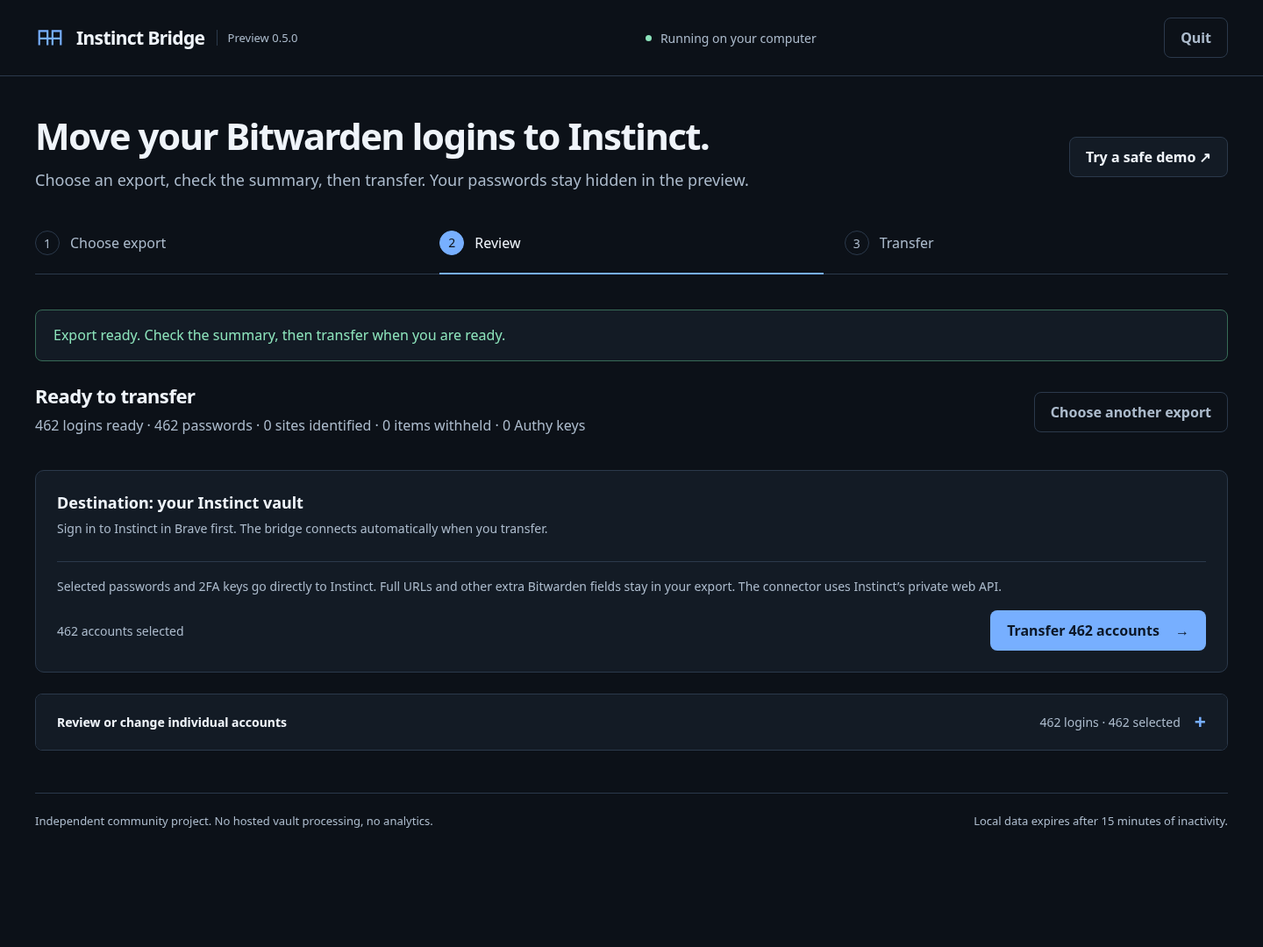
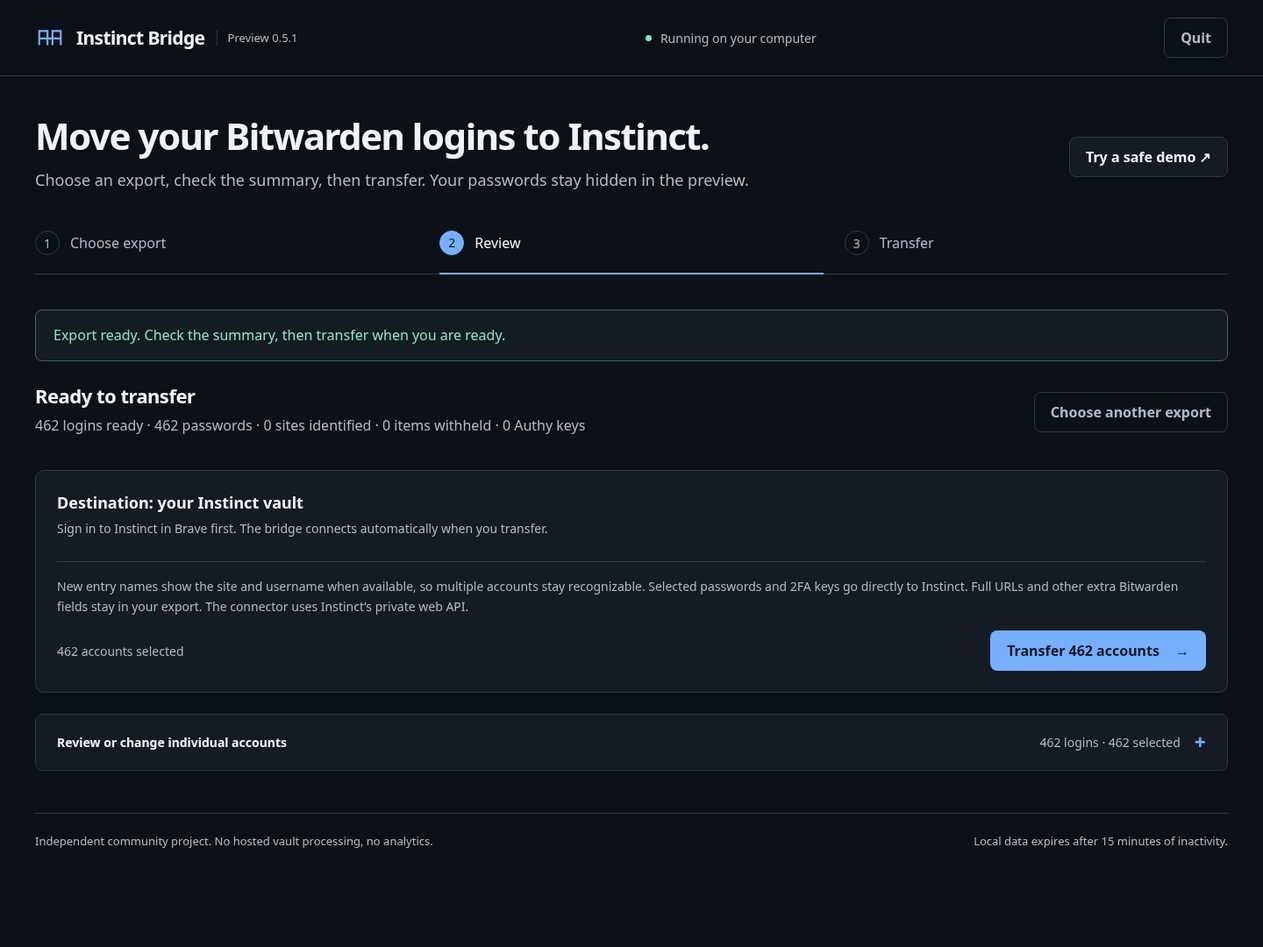
Clarify multi-account login labels

diff --git a/src/instinct_bridge/static/index.html b/src/instinct_bridge/static/index.html
@@ -1,7 +1,7 @@
 <!doctype html>
 <html lang="en"><head><meta charset="utf-8"><meta name="viewport" content="width=device-width,initial-scale=1"><title>Instinct Bridge</title><link rel="icon" href="/static/icon.svg" type="image/svg+xml"><link rel="stylesheet" href="/static/style.css"><script src="/static/app.js" defer></script></head>
 <body>
-<header><a class="brand" href="#" aria-label="Instinct Bridge"><svg viewBox="0 0 36 36" aria-hidden="true"><path d="M5 27V10h10v17M21 27V10h10v17M5 19h26"/></svg>Instinct Bridge<span class="version">Preview 0.5.0</span></a><span class="local"><span class="dot"></span>Running on your computer</span><button class="quiet" id="quit">Quit</button></header>
+<header><a class="brand" href="#" aria-label="Instinct Bridge"><svg viewBox="0 0 36 36" aria-hidden="true"><path d="M5 27V10h10v17M21 27V10h10v17M5 19h26"/></svg>Instinct Bridge<span class="version">Preview 0.5.1</span></a><span class="local"><span class="dot"></span>Running on your computer</span><button class="quiet" id="quit">Quit</button></header>
 <main>
 <div class="intro"><div><h1>Move your Bitwarden logins to Instinct.</h1><p>Choose an export, check the summary, then transfer. Your passwords stay hidden in the preview.</p></div><button class="secondary" id="demo">Try a safe demo <span aria-hidden="true">↗</span></button></div>
 <ol class="stages" aria-label="Migration progress"><li class="active" id="stage1"><span>1</span>Choose export</li><li id="stage2"><span>2</span>Review</li><li id="stage3"><span>3</span>Transfer</li></ol>
@@ -14,7 +14,7 @@
 <section id="review" hidden aria-labelledby="review-title"><div class="section-head"><div><h2 id="review-title">Ready to transfer</h2><p id="counts"></p></div><div class="review-tools"><span id="demo-label" hidden>Sample data · transfer disabled</span><button class="quiet" id="clear">Choose another export</button></div></div>
 <div id="issues" hidden><h3>Some source data will stay in Bitwarden</h3><p>Instinct has no URL field for logins. The site hostname is added to the account name, but full URLs, notes, attachments, passkeys and custom fields stay in Bitwarden.</p><ul id="issue-list"></ul></div>
 <div id="pairing" hidden><div class="section-head"><div><h2>Pair your Authy keys</h2><p>Check each pairing. An unpaired key stays out of the transfer.</p></div></div><div id="authy-rows"></div><label class="check-label"><input type="checkbox" id="allow-unmapped">Leave any unpaired Authy keys out of this transfer.</label></div>
-<div class="transfer-panel"><div class="connection"><div><h3>Destination: your Instinct vault</h3><p id="connection-state">Sign in to Instinct in Brave first. The bridge connects automatically when you transfer.</p></div></div><p class="transfer-consent">Selected passwords and 2FA keys go directly to Instinct. Full URLs and other extra Bitwarden fields stay in your export. The connector uses Instinct’s private web API.</p><div class="transfer-actions"><span id="selection-count">0 accounts selected</span><button class="primary" id="transfer" disabled><span id="transfer-label">Transfer &amp; verify</span><span aria-hidden="true">→</span></button></div><div id="transfer-progress" class="transfer-progress" hidden><progress id="transfer-meter" max="1" value="0"></progress><p id="transfer-progress-text" role="status" aria-live="polite">Preparing transfer…</p></div></div>
+<div class="transfer-panel"><div class="connection"><div><h3>Destination: your Instinct vault</h3><p id="connection-state">Sign in to Instinct in Brave first. The bridge connects automatically when you transfer.</p></div></div><p class="transfer-consent">New entry names show the site and username when available, so multiple accounts stay recognizable. Selected passwords and 2FA keys go directly to Instinct. Full URLs and other extra Bitwarden fields stay in your export. The connector uses Instinct’s private web API.</p><div class="transfer-actions"><span id="selection-count">0 accounts selected</span><button class="primary" id="transfer" disabled><span id="transfer-label">Transfer &amp; verify</span><span aria-hidden="true">→</span></button></div><div id="transfer-progress" class="transfer-progress" hidden><progress id="transfer-meter" max="1" value="0"></progress><p id="transfer-progress-text" role="status" aria-live="polite">Preparing transfer…</p></div></div>
 <details id="accounts-details" class="accounts-details"><summary><span>Review or change individual accounts</span><span id="accounts-summary"></span></summary><div class="account-filter"><label for="account-search">Find an account</label><input id="account-search" type="search" placeholder="Search title, site, or username" autocomplete="off"></div><p id="account-empty" hidden>No matching account in this export.</p><div class="table-wrap"><table><thead><tr><th class="check-col"><input id="select-all" type="checkbox" aria-label="Select all accounts" checked></th><th>Account</th><th>Site</th><th>Username</th><th>Authenticator</th><th>Result</th></tr></thead><tbody id="account-rows"></tbody></table></div></details>
 </section>
 <footer><span>Independent community project. No hosted vault processing, no analytics.</span><span>Local data expires after 15 minutes of inactivity.</span></footer>

diff --git a/scripts/verify_multi_account.py b/scripts/verify_multi_account.py
@@ -1,0 +1,69 @@
+"""Opt-in real-vault check with two synthetic accounts for one service.
+
+The report contains only booleans and counts. Both synthetic records are removed.
+"""
+
+import argparse
+import json
+from dataclasses import replace
+from datetime import datetime, timezone
+from pathlib import Path
+from uuid import uuid4
+
+from instinct_bridge.destination import DELETE, brave_session
+from instinct_bridge.source import loads_plan
+
+parser = argparse.ArgumentParser(description=__doc__)
+parser.add_argument("--brave-session", action="store_true", required=True)
+parser.add_argument("--report", type=Path)
+args = parser.parse_args()
+
+run_id = uuid4().hex[:12]
+source = {"encrypted": False, "items": [
+    {"id": str(uuid4()), "type": 1, "name": f"Instinct Bridge synthetic multi-account {run_id}",
+     "login": {"username": username, "password": f"SYNTHETIC-{run_id}-{number}",
+               "uris": [{"uri": "https://same-service.example.invalid/login"}]}}
+    for number, username in enumerate(("first@example.invalid", "second@example.invalid"), 1)
+]}
+items = loads_plan(json.dumps(source), allow_partial=True, migration_names=True).logins
+assert len(items) == 2 and items[0].site == items[1].site
+assert all(f"login: {item.username}" in item.name for item in items)
+
+report = {"checked_at": datetime.now(timezone.utc).isoformat(), "data": "synthetic",
+          "same_title_and_service": True, "distinct_source_ids": items[0].source_id != items[1].source_id}
+with brave_session() as destination:
+    inventory = destination.inventory()
+    assert all(not any(entry["kind"] == "login" and entry["name"] == item.name
+                       for entry in inventory) for item in items)
+    try:
+        report["created"] = [destination.transfer(item)["status"] for item in items]
+        destination.reload()
+        report["exact_readback"] = [all(destination.verify(item).values()) for item in items]
+        report["cross_account_mismatch_rejected"] = [
+            not all(destination.verify(replace(item, name=other.name)).values())
+            for item, other in ((items[0], items[1]), (items[1], items[0]))]
+        report["repeat"] = [destination.transfer(item)["status"] for item in items]
+        report["vault_entry_count"] = sum(entry["kind"] == "login" and
+                                          entry["name"] in {item.name for item in items}
+                                          for entry in destination.inventory())
+        destination.page.goto("https://app.instinct.com/vault", wait_until="domcontentloaded")
+        destination.page.wait_for_timeout(2000)
+        visible = destination.page.locator("body").inner_text()
+        report["both_labels_visible_in_vault"] = all(item.name in visible for item in items)
+        report["both_usernames_visible_in_labels"] = all(item.username in visible for item in items)
+    finally:
+        for item in items:
+            if all(destination.verify(item).values()):
+                destination.call(DELETE, {"kind": "login", "name": item.name})
+        report["cleanup_verified"] = all(not any(entry["kind"] == "login" and entry["name"] == item.name
+                                             for entry in destination.inventory()) for item in items)
+        if args.report:
+            args.report.parent.mkdir(parents=True, exist_ok=True)
+            args.report.write_text(json.dumps(report, indent=2) + "\n")
+
+assert report["created"] == ["created", "created"] and report["exact_readback"] == [True, True]
+assert report["cross_account_mismatch_rejected"] == [True, True]
+assert report["repeat"] == ["already_present", "already_present"] and report["vault_entry_count"] == 2
+assert report["both_labels_visible_in_vault"] and report["both_usernames_visible_in_labels"]
+assert report["cleanup_verified"]
+print(json.dumps(report, indent=2))

diff --git a/tests/test_source.py b/tests/test_source.py
@@ -95,6 +95,37 @@ class SourceTests(unittest.TestCase):
         with self.assertRaisesRegex(MigrationError, "Duplicate Bitwarden item IDs"):
             loads_plan(json.dumps(data), allow_partial=True, migration_names=True)
 
+    def test_same_service_accounts_show_their_usernames_without_losing_identity(self):
+        data = self.data()
+        first = data["items"][0]
+        first["name"] = "Same service"
+        first["login"]["username"] = "first@example.invalid"
+        first["login"]["uris"] = [{"uri": "https://same-service.example.invalid/one"}]
+        second = copy.deepcopy(first)
+        second["id"] = "00000000-0000-4000-8000-000000000003"
+        second["login"]["username"] = "second@example.invalid"
+        data["items"].append(second)
+        plan = loads_plan(json.dumps(data), allow_partial=True, migration_names=True)
+        self.assertEqual(len(plan.logins), 2)
+        for login, username in zip(plan.logins, ("first@example.invalid", "second@example.invalid")):
+            self.assertIn("same-service.example.invalid", login.name)
+            self.assertIn("login: " + username, login.name)
+            self.assertTrue(login.name.endswith(f"[bw:{login.source_id}]"))
+            self.assertLessEqual(len(login.name), 240)
+            self.assertEqual(login.username, username)
+        self.assertNotEqual(plan.logins[0].name, plan.logins[1].name)
+
+    def test_long_migration_name_keeps_account_hint_and_marker(self):
+        data = self.data()
+        data["items"][0]["name"] = "Long title " * 200
+        data["items"][0]["login"]["username"] = "long-account-" * 30 + "\n"
+        data["items"][0]["login"]["uris"] = [{"uri": "https://" + "long." * 18 + "example.invalid"}]
+        login = loads_plan(json.dumps(data), allow_partial=True, migration_names=True).logins[0]
+        self.assertLessEqual(len(login.name), 240)
+        self.assertIn(" · login: long-account-", login.name)
+        self.assertNotIn("\n", login.name)
+        self.assertTrue(login.name.endswith(f"[bw:{login.source_id}]"))
+
     def test_migration_mode_accepts_untitled_credential_with_stable_id(self):
         data = self.data()
         data["items"][0]["name"] = "  "

diff --git a/src/instinct_bridge/source.py b/src/instinct_bridge/source.py
@@ -131,12 +131,17 @@ def _site_from_uris(uris) -> str:
     return ""
 
 
-def _migration_name(title: str, site: str, identifier: str) -> str:
-    # The target has no source-ID or URL field, so the name carries both a readable
-    # hostname and a stable marker. Keep the marker even if a long title is trimmed.
+def _migration_name(title: str, site: str, username: str, identifier: str) -> str:
+    # Instinct's list shows names, not usernames. Include a readable account hint
+    # alongside the hostname while retaining the stable marker for safe reimports.
     suffix = f" [bw:{identifier}]"
-    prefix = title + (f" · {site}" if site else "")
-    return prefix[:240 - len(suffix)].rstrip() + suffix
+    site_label = site if len(site) <= 85 else "…" + site[-84:]
+    readable_username = " ".join("".join(char if char.isprintable() else " " for char in username).split())
+    username_label = readable_username if len(readable_username) <= 70 else readable_username[:69] + "…"
+    site_part = f" · {site_label}" if site_label else ""
+    username_part = f" · login: {username_label}" if username_label else ""
+    title_budget = 240 - len(suffix) - len(site_part) - len(username_part)
+    return title[:title_budget].rstrip() + site_part + username_part + suffix
 
 
 def _unique_object(pairs):
@@ -240,7 +245,7 @@ def loads_plan(raw, password="", allow_partial=False, migration_names=False) -> 
                 issue("Missing or invalid Bitwarden item ID; this login cannot be safely reimported.")
                 continue
         site = _site_from_uris(login.get("uris")) if migration_names else ""
-        destination_name = _migration_name(name, site, identifier) if migration_names else name
+        destination_name = _migration_name(name, site, username, identifier) if migration_names else name
         if extra:
             issues.append({"index": index, "reason": "Extra source fields stay in Bitwarden.", "partial": True})
         logins.append(Login(destination_name, username, password, totp, index,

diff --git a/src/instinct_bridge/web.py b/src/instinct_bridge/web.py
@@ -283,7 +283,7 @@ def create_app(token, expected_host, destination_factory=brave_session, capture_
 def main():
     parser = argparse.ArgumentParser(description="Start Instinct Bridge on this computer only")
     parser.add_argument("--port", type=int, default=8765)
-    parser.add_argument("--version", action="version", version="Instinct Bridge 0.5.0")
+    parser.add_argument("--version", action="version", version="Instinct Bridge 0.5.1")
     parser.add_argument("--open", action="store_true", help="Open the local app in your browser")
     args = parser.parse_args()
     if not 1024 <= args.port <= 65535:

diff --git a/README.md b/README.md
@@ -2,7 +2,7 @@
 
 A local app to move Bitwarden logins and recoverable Authy 2FA keys into Instinct, with account selection, explicit pairing, and verification after transfer.
 
-**Preview 0.5.0.** Tested against a real Instinct vault using synthetic credentials and a full login migration. The UI accepts Bitwarden logins with duplicate titles and supports repeat imports from later exports. It is a login/TOTP bridge, not a complete-vault migration tool. **Extraction from an actual Authy iPhone remains unvalidated.** Independent of Instinct, Bitwarden, and Twilio.
+**Preview 0.5.1.** Tested against a real Instinct vault using synthetic credentials and a full login migration. The UI accepts Bitwarden logins with duplicate titles and supports repeat imports from later exports. It is a login/TOTP bridge, not a complete-vault migration tool. **Extraction from an actual Authy iPhone remains unvalidated.** Independent of Instinct, Bitwarden, and Twilio.
 
 ![Local account review using 462 synthetic accounts](docs/evidence/desktop-batch-review.png)
 
@@ -40,7 +40,9 @@ Authy is optional. Open **Also moving Authy codes?** before reviewing if you wan
 | TOTP | SHA1, 6 digits, 30 seconds | Other algorithms/configurations are withheld |
 | Other vault content | Reported for review | Full URLs, notes, cards, attachments, passkeys and organization metadata are not migrated |
 
-The UI appends the site's **hostname** and a stable Bitwarden item ID to the Instinct entry name. Instinct's observed login schema has no URL field, so full URLs and browser autofill associations cannot be preserved. The original URL remains in Bitwarden. A later export can import newly added logins; previously imported IDs are verified and skipped even if their Bitwarden title changed. A changed password or 2FA key on an imported ID causes a conflict and is **not** silently overwritten. Conflicts leave that entry untouched while other selected accounts continue. A timeout or unverified write stops the batch. An identical entry imported by an earlier untagged bridge version is recognized by its exact title and credentials. Import passwords and Authy together for pairing. Live continuous sync is not provided: create a fresh Bitwarden export for later changes.
+Each Instinct login stores its exact username in Instinct's `username` field. New entries also put the site's **hostname** and a readable username hint in the visible entry name when available, plus a stable Bitwarden item ID. This distinguishes two accounts with the same title and site in Instinct's list. The hint is shortened for unusually long usernames; the exact value stays in the username field. Instinct's observed login schema has no URL field, so full URLs and browser autofill associations cannot be preserved. The original URL remains in Bitwarden. A later export can import newly added logins; previously imported IDs are verified and skipped even if their Bitwarden title changed. A changed password, username or 2FA key on an imported ID causes a conflict and is **not** silently overwritten. Conflicts leave that entry untouched while other selected accounts continue. A timeout or unverified write stops the batch. An identical entry imported by an earlier untagged bridge version is recognized by its exact title and credentials. Import passwords and Authy together for pairing. Live continuous sync is not provided: create a fresh Bitwarden export for later changes.
+
+Entries imported before 0.5.1 retain their existing names when reimported; the bridge does not delete and recreate credentials merely to change a label. Their exact usernames remain stored and independently verifiable in Instinct. The visible username hint helps people and agents select an account, but it does not prove how Instinct's assistant chooses credentials for a task.
 
 Password-only and username-only Bitwarden logins are supported. Instinct refuses reveal requests for empty fields, so verification checks the destination's field-presence flag before attempting a read-back. The review shows whether a password is present, never its value.
 
@@ -69,6 +71,9 @@ Run one importer at a time without concurrent destination edits: the observed up
 
 # Optional: creates and cleans up its own synthetic record in your real vault.
 .venv/bin/python scripts/verify_e2e.py --brave-session
+
+# Optional: checks two synthetic usernames at the same service, then removes both.
+.venv/bin/python scripts/verify_multi_account.py --brave-session
 ```
 
 The graphical interface provides Authy pairing and account selection. The CLI currently imports Bitwarden only.

diff --git a/docs/product-plan.md b/docs/product-plan.md
@@ -53,8 +53,8 @@ Keep raw credentials out of reports and logs. An optional resumable state must b
 4. **Robust transfer:** partial failure, rate limits, session expiry, cancellation, uncertain writes, and resumption.
 5. **Release:** installation tested on each claimed OS, dependency/license review, synthetic demo, compatibility matrix, security contact, versioned release and changelog. Only claim the platforms and formats actually tested.
 
-## Current implementation — Preview 0.5.0
+## Current implementation — Preview 0.5.1
 
 Local UI, encrypted Bitwarden PBKDF2/Argon2id input, Authy token decryption, explicit pairing, standalone OTP records, metadata-only preview and destination-session guards are implemented. A single transfer button connects and verifies selected credentials. A Linux standalone executable includes guided, temporary Authy capture; iOS approvals remain manual.
 
-49 tests cover parsing, crypto, web authorization, capture boundaries, transfer progress, uncertain failures and cleanup. The one-command source launcher and in-app flow prioritize Bitwarden login migration. Authy setup is optional; the review keeps the transfer action above a folded, searchable account list, shows selection totals, and displays progress during transfer. The UI accepts duplicate Bitwarden titles, adds a safe site hostname to each target label, indicates password presence without exposing values, and uses source item IDs to skip identical records on later exports. Conflicting changes are not overwritten. Real Instinct synthetic transfer/read-back/repeat/conflict/cleanup pass, including duplicate-title and empty-field records. A complete real login batch was transferred with per-item read-back and a fresh-session inventory check. See docs/evidence for synthetic test reports; no private credentials appear there. USB pairing is validated, but Authy storage is inaccessible and actual phone extraction remains pending. Other Bitwarden item types, other authenticators and cross-platform runtime support are not delivered.
+51 tests cover parsing, crypto, web authorization, capture boundaries, transfer progress, uncertain failures and cleanup. The one-command source launcher and in-app flow prioritize Bitwarden login migration. Authy setup is optional; the review keeps the transfer action above a folded, searchable account list, shows selection totals, and displays progress during transfer. The UI accepts duplicate Bitwarden titles, adds the site hostname and a readable username hint to each new target label, indicates password presence without exposing values, and uses source item IDs to skip identical records on later exports. Existing labels are not rewritten on reimport. Conflicting changes are not overwritten. Real Instinct synthetic transfer/read-back/repeat/conflict/cleanup pass, including same-service multi-account and empty-field records. A complete real login batch was transferred with per-item read-back and a fresh-session inventory check. See docs/evidence for synthetic test reports; no private credentials appear there. USB pairing is validated, but Authy storage is inaccessible and actual phone extraction remains pending. Other Bitwarden item types, other authenticators and cross-platform runtime support are not delivered.

diff --git a/SECURITY.md b/SECURITY.md
@@ -8,7 +8,7 @@ The CLI previews locally by default. Transfer requires explicit flags. It reads 
 
 The source reader accepts plaintext JSON or portable password-protected Bitwarden JSON, using bounded PBKDF2/Argon2id and verifying HMAC before AES-CBC decryption. Authy backups use the inspected PBKDF2-SHA1/AES-CBC format; that format has no authenticated integrity guarantee. The bridge does not create an intermediate plaintext file, but it cannot protect an already-existing export, OS swap, browser crash dumps, extensions in the source browser, or a compromised machine. Python/browser memory is not securely erased. Browser session reading depends on the third-party `browser-cookie3` library and the local OS key store.
 
-Name conflict checks are client-side. A concurrent writer could race the check because the private upsert API has no verified conditional-create feature. Run one importer at a time with no concurrent edits. Uncertain writes stop the transfer; inspect/reconcile before retrying. The UI stores a Bitwarden item ID in the destination name to recognize repeat imports; it verifies an identical existing record and skips it, but never silently overwrites changed credentials. The source hostname is visible in the destination name; the full URL, path, query and fragment are not sent as a site field.
+Name conflict checks are client-side. A concurrent writer could race the check because the private upsert API has no verified conditional-create feature. Run one importer at a time with no concurrent edits. Uncertain writes stop the transfer; inspect/reconcile before retrying. The UI stores a Bitwarden item ID in the destination name to recognize repeat imports; it verifies an identical existing record and skips it, but never silently overwrites changed credentials. New destination names visibly include the source hostname and a shortened username hint so accounts at one service can be distinguished. The exact username remains in Instinct's username field. The full URL, path, query and fragment are not sent as a site field.
 
 The preview sends password-presence booleans to the local browser, never password values. Destination read-back reveals populated credential fields inside the isolated headless session and compares them in memory. Instinct rejects reveal requests for absent fields; the connector verifies those via field-presence metadata.
 

diff --git a/docs/research.md b/docs/research.md
@@ -73,3 +73,7 @@ A local dry-run of the user's export admitted every login without writing any of
 ## Empty-field readback — Preview 0.4.1
 
 The observed Instinct API returns a GraphQL error when `revealVaultSubfieldValue` is called for an unpopulated username or password. An initial large transfer had already saved a password-only login when its read-back failed on the empty username. The connector now uses `vaultEntries.fields[].populated` to verify absent values without requesting an unsupported reveal. Live synthetic tests cover password-only and username-only records, repeat import, and cleanup. The interrupted real login batch was resumed; each selected record was either newly created and verified or recognized by read-back. A fresh destination session confirmed the complete set of source IDs and sampled stored credentials. No password values are included in project evidence.
+
+## Same-service accounts — Preview 0.5.1
+
+Two synthetic Bitwarden logins with the same title and hostname but different usernames and passwords were created in the real Instinct vault. Instinct stored two distinct entries, exact read-back matched each account, cross-account comparison failed as expected, both were skipped on repeat, and both were removed. The vault list displayed both entry names but did not display their native username fields. New bridge labels therefore include a shortened, printable username hint plus the existing hostname and stable source ID. A second live test confirmed both usernames were visible in those new labels. [The synthetic report](evidence/2026-09-25-multi-account.json) contains no credentials. Previously imported labels remain unchanged on reimport; this test does not establish how Instinct's assistant selects a credential in an actual task.

diff --git a/design.md b/design.md
@@ -30,5 +30,8 @@ The project lives under a directory containing a space. Give shell instructions 
 ## Large-vault usability — 2026-09-25
 The primary action must stay visible above the account table. Fold the list by default for large exports, show the selected total near the action, and let users search and deselect individual entries on demand. Keep Authy setup behind an optional disclosure. Show count-only progress throughout a transfer so long batches are understandable without exposing credentials.
 
+## Multi-account identity — 2026-09-25
+Kusaila asked whether Instinct can distinguish different usernames at the same service. Its list displays entry names but not the stored username. New migration names therefore include a readable username hint alongside the hostname and stable source ID; exact usernames stay in the native field. Preserve already imported entries on repeat instead of rewriting or deleting them merely to update a label. Do not claim this proves the assistant's own account-selection behavior.
+
 ## Password visibility — 2026-09-25
 The review must distinguish a credential with a saved password from a passwordless login. Show presence and totals without sending password values to the browser preview. Keep plaintext password verification in the background transfer path; the results column describes transfer state, not source content.

diff --git a/docs/release-checklist.md b/docs/release-checklist.md
@@ -6,10 +6,11 @@
 - [x] Host, origin, token, stale-preview and destination-session guards.
 - [x] Strict conflict handling and read-back verification.
 - [x] Live graphical transfer of independently encrypted synthetic sources, repeat prevention and verified cleanup.
-- [x] Desktop/mobile visual checks, 49 unit tests and zero known dependency vulnerabilities in the checked environment.
+- [x] Desktop/mobile visual checks, 51 unit tests and zero known dependency vulnerabilities in the checked environment.
 - [x] Linux standalone executable: demo, capture lifecycle and real synthetic Instinct transfer.
 - [x] One transfer button connects, writes, verifies and skips identical repeats.
 - [x] One-command source launcher; optional Authy controls; searchable, collapsed large-account review; visible transfer progress.
+- [x] Two same-title, same-site synthetic accounts retain distinct usernames/passwords, appear with readable labels, skip on repeat and clean up.
 - [ ] Validate initial extraction against a real Authy iPhone.
 - [ ] Compare migrated keys with codes in the actual Authy app and test real service logins.
 - [ ] Independently review security and confirm supported platforms.
